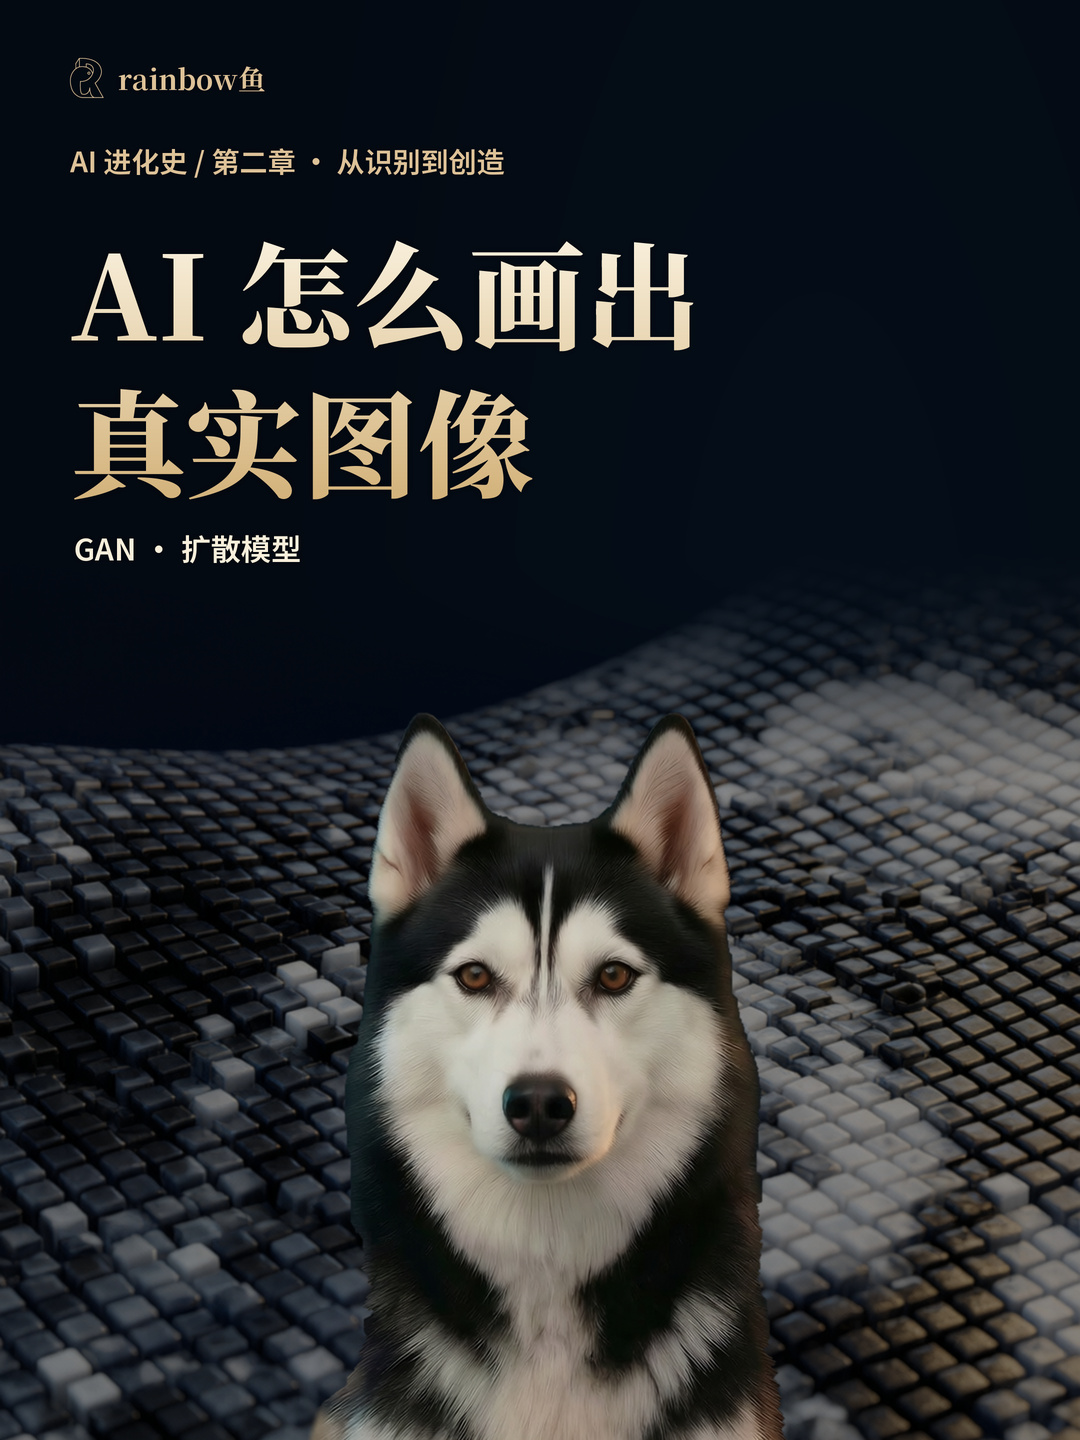
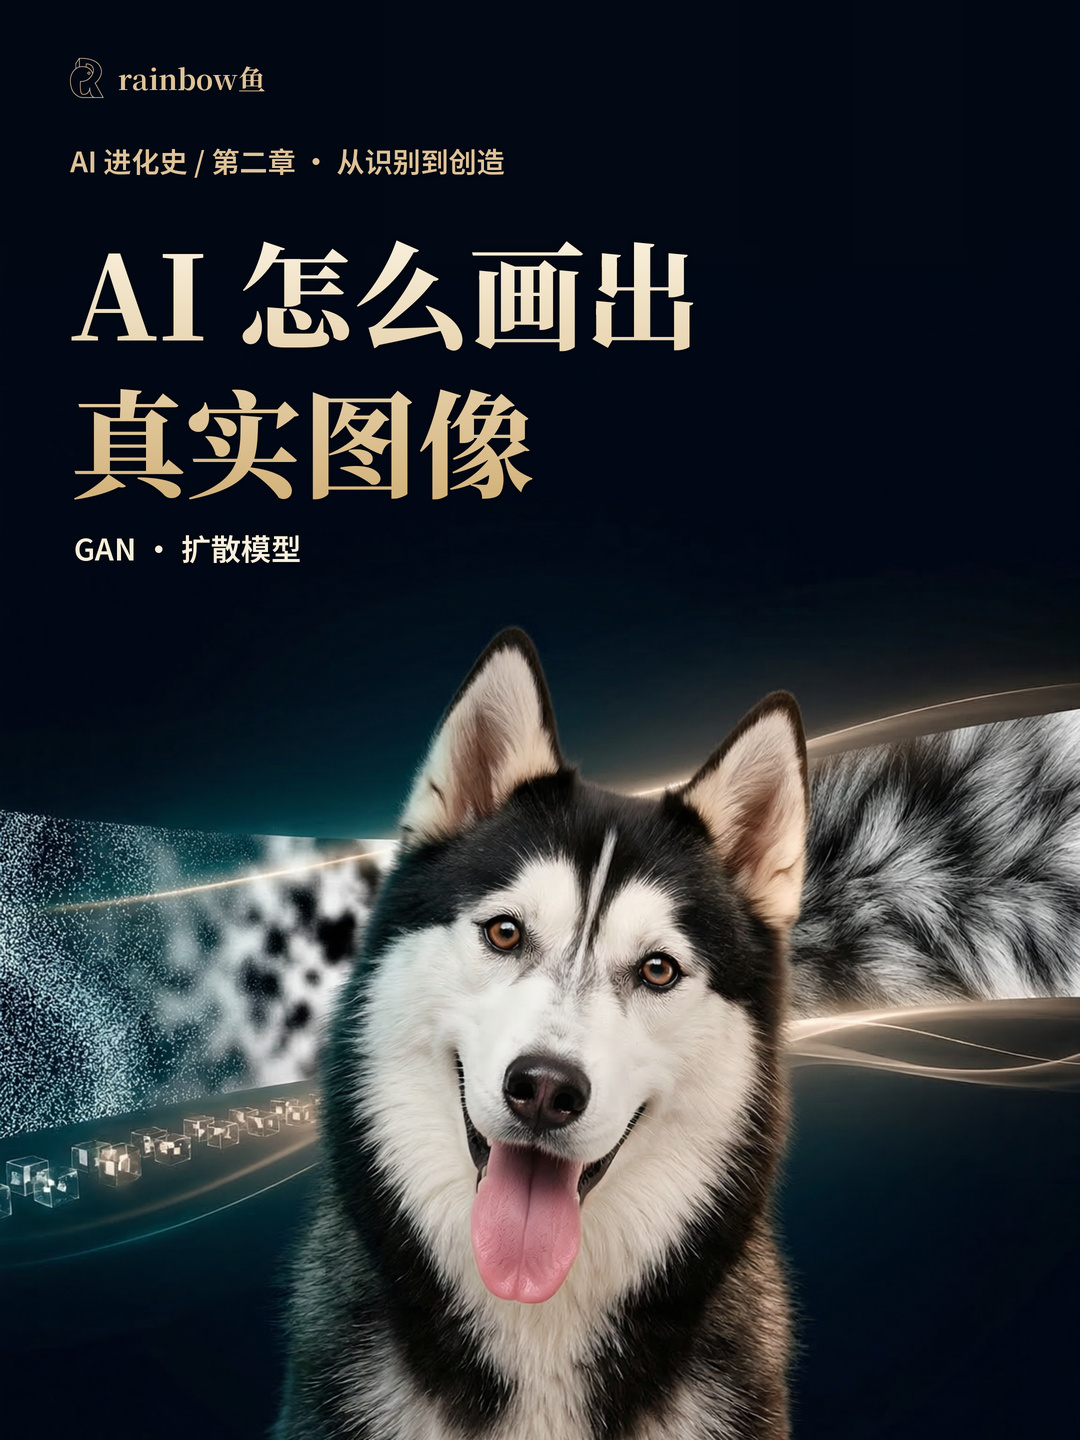
docs: refresh chapter two covers with larger tongue-out Taxue

diff --git a/chapters/02-generation/publication/2026-09-29/README.md b/chapters/02-generation/publication/2026-09-29/README.md
@@ -6,7 +6,7 @@ rainbow鱼 ·《AI进化史》第二章《从识别到创造》· V18 · 30分24
 
 ## 封面
 
-保留标题、品牌与踏雪的位置，新背景以三维像素成像呼应生成主题。封面是概念图；脸部和犬体采用已确认的角色形象，并不代表本章的小型GAN/DDPM实验输出。
+当前封面为 **V6**：踏雪以更大的近景、自然吐舌的表情出现，背景用“噪声 → 模糊结构 → 清晰毛发图像”的空间变化呼应扩散去噪。四比例保持原标题、Logo、字号与排版位置，并分别检查主体遮挡和手机缩略图。封面是概念图，不代表本章的小型GAN/DDPM实验输出；正片版本仍为V18。
 
 | 比例 | 分辨率 | 下载 |
 |---|---|---|
@@ -15,7 +15,7 @@ rainbow鱼 ·《AI进化史》第二章《从识别到创造》· V18 · 30分24
 | 竖版9:16 | 1080×1920 | [JPG](covers/第二章_踏雪_竖版9x16_1080x1920.jpg) |
 | 竖版3:4 | 1080×1440 | [JPG](covers/第二章_踏雪_竖版3x4_1080x1440.jpg) |
 
-本仓库收录用于发布的JPG，避免同时复制同画面的PNG和ZIP；源工程仍保留可编辑排版、透明蒙版与生成背景。图片哈希见 [files.json](files.json)。署名rainbow鱼，角色踏雪使用“她”。新背景来自Qwen Image，文字和真实Logo为后期精确合成；未改变字体或品牌权利。
+本仓库收录用于发布的JPG，源工程保留PNG、可编辑排版、参考图与生成记录。图片哈希及封面修订号见 [files.json](files.json)。署名rainbow鱼，角色踏雪使用“她”。角色与背景由Qwen Image依据参考重绘，保留棕色双眼、细鼻梁白纹、三角立耳与黑白长毛；文字和真实Logo为后期精确合成。字体或品牌的使用范围沿用原说明。
 
 ## 文案与资料
 
